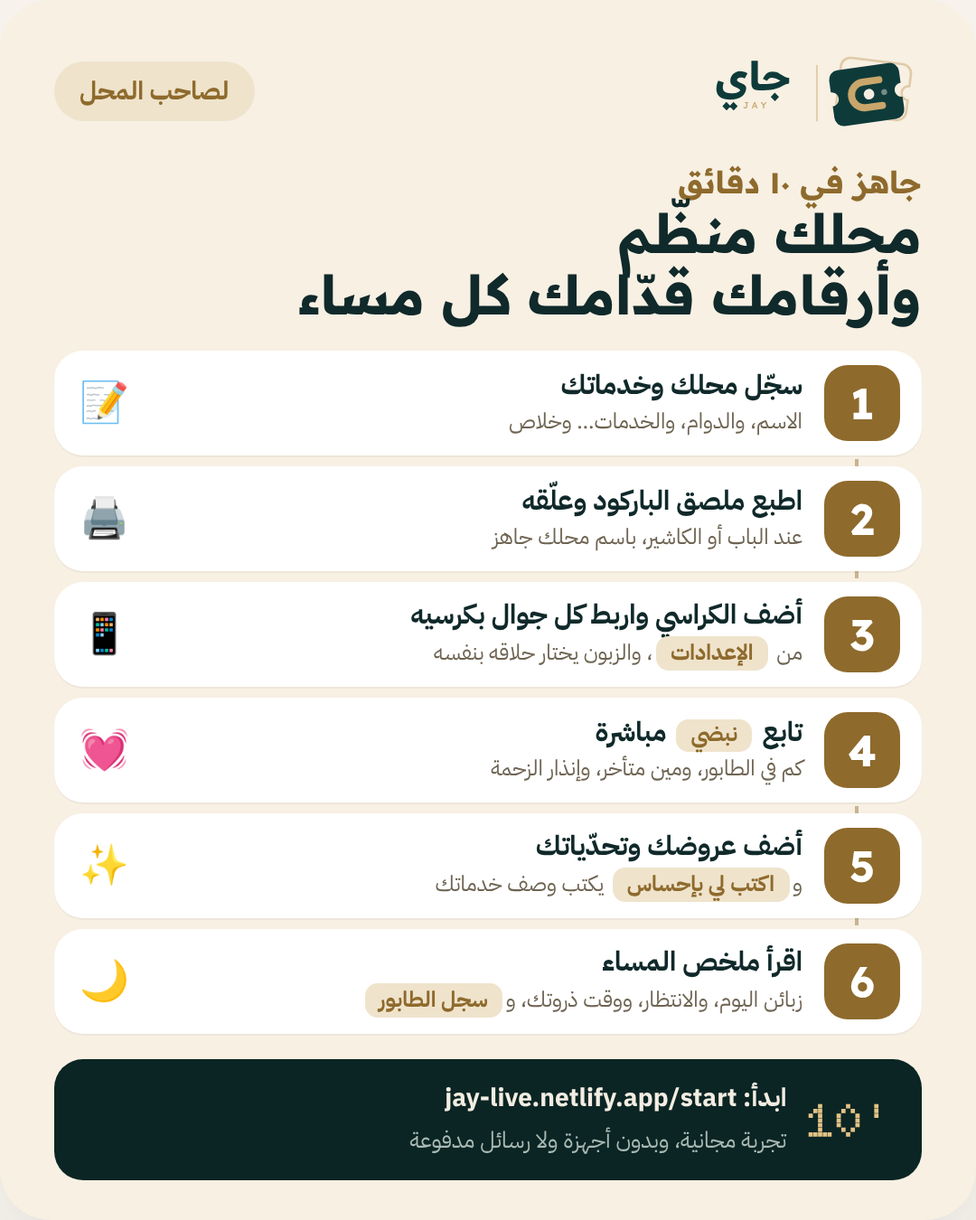
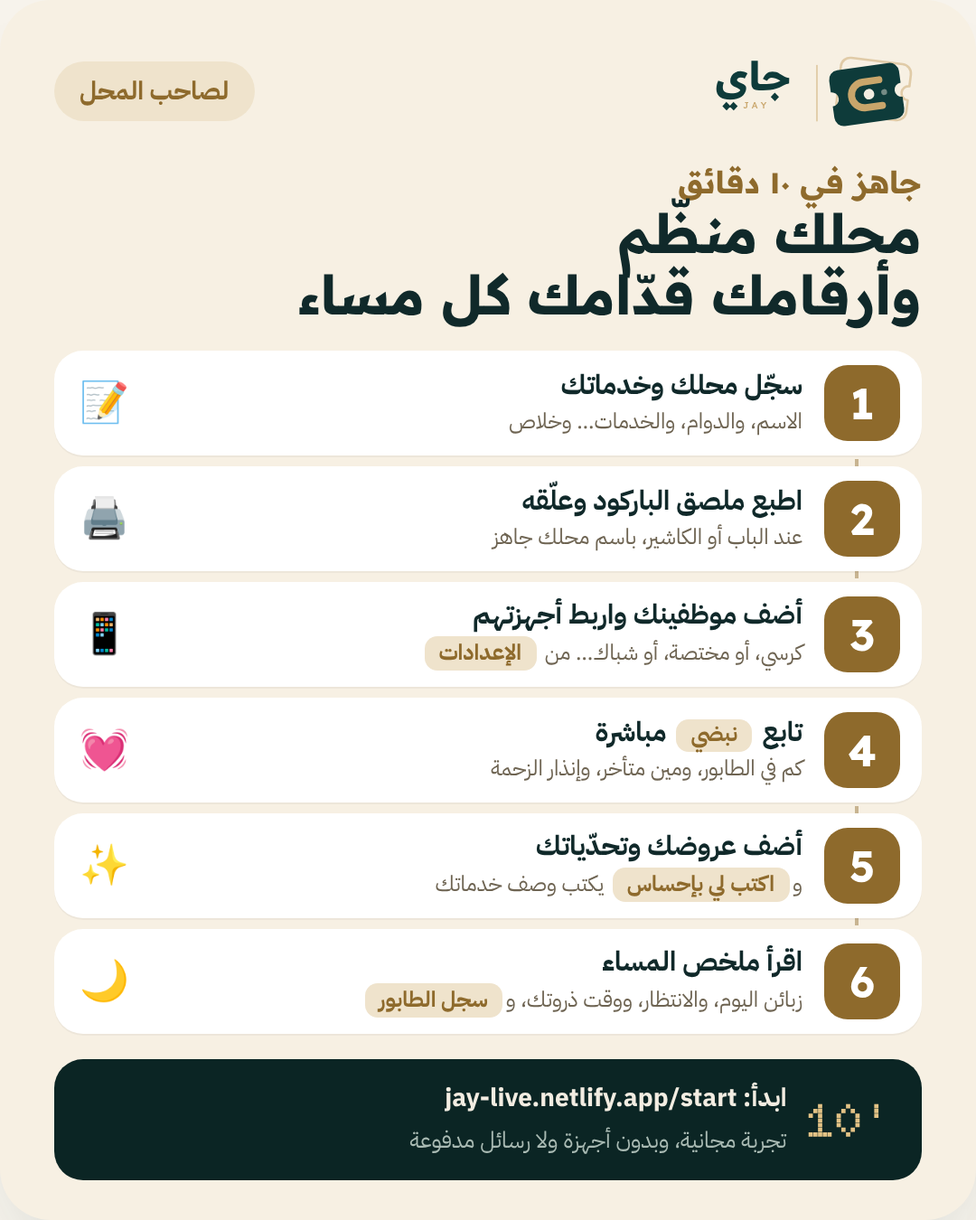
Infographics: four emotional ad boards for owners across all ten sectors; how-to boards made sector-neutral
- New boards: before vs with Jay, Jay for every business type (barber, salon, café, restaurant, bakery, clinic,
  lab, car wash, phone repair, tailor/laundry) with the three modes, a day with Jay, and the uncounted loss
  (an illustrative calculation) with what Jay measures.
- How-to boards: choosing a chair or specialist is optional, staff call in order, owners add staff of any kind.
- All seven PNGs exported at 1080x1350 and published under /brand/infographics/ on the live site.
- Readiness lists the new boards.

Claude-Session: https://claude.ai/code/session_011AnjtrARLh3VczrdQUDmDr

Changed region(s): [[0.4278, 0.4978, 0.825, 0.56]]

diff --git a/site/infographics.html b/site/infographics.html
@@ -1,4 +1,4 @@
-<title>جاي بخطوات بسيطة</title>
+<title>إنفوجرافيك جاي</title>
 <meta name="claude:viewport-fit-sides" content="cover">
 <link rel="preconnect" href="https://fonts.googleapis.com">
 <link rel="preconnect" href="https://fonts.gstatic.com" crossorigin>
@@ -46,12 +46,123 @@ body{margin:0;background:var(--paper);color:var(--ink);font-family:"IBM Plex San
 .ig.staff .foot{background:#1E2A27}
 .ig.staff .logo{background:#15403D;box-shadow:inset 0 0 0 1px rgba(201,166,107,.35)}
 .ig .url{position:absolute;left:32px;top:42px;font-size:11.5px;color:var(--mt);direction:ltr}
+.sec{font:700 22px "Readex Pro";margin:34px 0 14px;text-align:center}
+.ig.ad.feel,.ig.ad.money{--bg:#0E3B3A;--card:rgba(243,237,226,.07);--tx:#F3EDE2;--mt:#B9C7C1;--ac:#C9A66B;--ac2:rgba(201,166,107,.18)}
+.ig.ad.feel,.ig.ad.money{background:radial-gradient(120% 90% at 85% 0%,#15504E 0%,#0E3B3A 60%)}
+.ig.ad.sectors{--bg:#F7F3EC;--ac:#0E3B3A;--ac2:#E8EFEB}
+.ig.ad.day{--bg:#F7F0E3;--mt:#6E6452;--ac:#8E6A2C;--ac2:#EFE3CC}
+.ig.ad .head h2{font-size:27px;line-height:1.22}
+.ig.ad .foot{background:#0B2524}
+.ig.ad.feel .foot,.ig.ad.money .foot{background:rgba(0,0,0,.28)}
+/* before / after */
+.ba{display:grid;grid-template-columns:1fr 1fr;gap:12px;padding:16px 30px 0;align-content:start}
+.ba .col{border-radius:18px;padding:16px 16px 14px;display:grid;gap:12px;align-content:start}
+.ba .lbl{font:700 18px "Readex Pro";display:block;margin-bottom:2px}
+.ba p{margin:0;font-size:15.5px;line-height:1.45;display:flex;gap:8px;align-items:flex-start}
+.ba .before{background:rgba(243,237,226,.06);color:#A9B8B2}
+.ba .before p::before{content:"✕";color:#E28B79;font-weight:700}
+.ba .after{background:#F3EDE2;color:#0E3B3A}
+.ba .after .lbl{color:#8E6A2C}
+.ba .after p{font-weight:600}
+.feel .heart{margin:18px 30px 0;flex:1;display:grid;align-content:center;justify-items:center;text-align:center;gap:6px}
+.feel .heart b{font:700 23px/1.4 "Readex Pro";color:#F3EDE2}
+.feel .heart b em{font-style:normal;color:#C9A66B}
+.feel .heart span{font-size:13.5px;color:#B9C7C1}
+.ba .after p::before{content:"✓";color:#8E6A2C;font-weight:700}
+/* sector tiles */
+.tiles{display:grid;grid-template-columns:1fr 1fr;gap:9px;padding:14px 30px 0;flex:1;align-content:center}
+.tiles div{background:#fff;border-radius:14px;padding:11px 12px;display:grid;grid-template-columns:34px 1fr;column-gap:9px;align-items:center}
+.tiles i{grid-row:span 2;font-style:normal;font-size:25px;width:34px;height:34px;display:grid;place-items:center}
+.tiles b{font-size:15px;line-height:1.3}
+.tiles span{font-size:12px;color:var(--mt);line-height:1.4}
+/* a day */
+.tl{list-style:none;margin:0;padding:12px 30px 0;display:grid;gap:8px;flex:1;align-content:start;position:relative}
+.tl::before{content:"";position:absolute;right:51px;top:30px;bottom:30px;width:2px;background:repeating-linear-gradient(var(--ac) 0 6px,transparent 6px 12px);opacity:.4}
+.tl li{display:grid;grid-template-columns:44px 1fr;gap:12px;align-items:center;background:#fff;border-radius:16px;padding:9px 12px}
+.tl i{font-style:normal;font-size:22px;width:44px;height:44px;border-radius:14px;background:var(--ac2);display:grid;place-items:center;position:relative;z-index:1}
+.tl b{display:block;font:700 15px "Readex Pro";color:var(--ac)}
+.tl span{display:block;font-size:12.5px;line-height:1.45}
+/* the money board */
+.calc{margin:14px 30px 0;background:rgba(243,237,226,.07);border:1px solid rgba(201,166,107,.35);border-radius:18px;padding:14px}
+.eq{display:flex;align-items:center;justify-content:space-between;gap:6px}
+.eq span{display:grid;justify-items:center;text-align:center;font-size:11.5px;color:#B9C7C1;line-height:1.3}
+.eq b{font:700 34px/1 "Readex Pro";color:#F3EDE2}
+.eq .res b{color:#C9A66B;font-size:40px}
+.eq em{font-style:normal;font:700 22px "Readex Pro";color:#C9A66B}
+.calc .note{margin:10px 0 0;text-align:center;font-size:12.5px;color:#B9C7C1}
+.calc .note b{color:#F3EDE2}
+.gains{list-style:none;margin:0;padding:12px 30px 0;display:grid;gap:7px;flex:1;align-content:start}
+.gains li{display:flex;gap:10px;align-items:center;font-size:15px;font-weight:600;background:rgba(243,237,226,.06);border-radius:12px;padding:9px 12px}
+.gains li::before{content:"✓";color:#C9A66B;font-weight:700}
 .dl{display:flex;justify-content:center;gap:10px;margin-top:12px;flex-wrap:wrap}
 .dl a{font:600 14px "IBM Plex Sans Arabic";color:var(--ink);text-decoration:none;border:1px solid color-mix(in srgb,var(--muted) 40%,transparent);border-radius:999px;padding:7px 16px}
 </style>
 <div class="page">
-  <h1>«جاي» بخطوات بسيطة</h1>
-  <p>ثلاث لوحات: للزبون، وللموظف، ولصاحب المحل. مقاس منشور (1080×1350)، تصلح للنشر وللطباعة بجانب الكاشير.</p>
+  <h1>«جاي» لكل محل فيه انتظار</h1>
+  <p>سبع لوحات بمقاس منشور (1080×1350): أربع للإعلان تكلّم صاحب المحل، وثلاث تشرح الاستخدام للزبون والموظف والمالك.</p>
+  <h2 class="sec">للإعلان والنشر</h2>
+  <div class="grid">
+    <div class="slot"><section class="ig ad feel" id="ig-feel" aria-label="قبل جاي ومع جاي">
+      <div class="top"><svg class="igmark" xmlns="http://www.w3.org/2000/svg" viewBox="52 128 322 136" role="img" aria-label="جاي"><title>جاي</title><g transform="translate(304 194) rotate(7) scale(0.85) translate(-60 -48)"><path d="M16 0H104A16 16 0 0 1 120 16V36A12 12 0 0 0 120 60V80A16 16 0 0 1 104 96H16A16 16 0 0 1 0 80V60A12 12 0 0 0 0 36V16A16 16 0 0 1 16 0Z" fill="none" stroke="#C9A66B" stroke-width="4" stroke-opacity="0.5" stroke-linejoin="round"/></g><g transform="translate(294 202) rotate(-8) scale(0.85) translate(-60 -48)"><path d="M16 0H104A16 16 0 0 1 120 16V36A12 12 0 0 0 120 60V80A16 16 0 0 1 104 96H16A16 16 0 0 1 0 80V60A12 12 0 0 0 0 36V16A16 16 0 0 1 16 0Z" fill="#F3EDE2"/><path d="M84 26H56A22 22 0 0 0 56 70H84" fill="none" stroke="#C9A66B" stroke-width="12" stroke-linecap="round" stroke-linejoin="round"/><circle cx="64" cy="48" r="9" fill="#0E3B3A"/><circle cx="90" cy="48" r="5" fill="#0E3B3A" fill-opacity="0.45"/></g><line x1="222" y1="160" x2="222" y2="240" stroke="#C9A66B" stroke-width="2" stroke-linecap="round" stroke-opacity="0.6"/><path d="M96.215 209.34Q91.80699999999999 209.34 88.18199999999999 208.47Q84.55699999999999 207.6 81.91799999999999 205.744Q79.279 203.888 77.858 200.959Q76.437 198.03 76.437 193.912Q76.437 191.534 77.10399999999998 188.286Q77.77099999999999 185.038 79.22099999999999 182.022L87.225 184.516Q86.529 186.546 86.15199999999999 188.286Q85.77499999999999 190.026 85.77499999999999 191.708Q85.77499999999999 193.738 86.471 195.333Q87.167 196.928 88.61699999999999 198.03Q90.067 199.132 92.27099999999999 199.683Q94.475 200.234 97.491 200.234Q101.261 200.234 103.842 199.77Q106.423 199.306 107.96 198.55200000000002Q109.49699999999999 197.798 110.19299999999998 197.015Q110.889 196.232 110.889 195.652Q110.889 195.362 110.541 194.898Q110.193 194.434 108.685 193.564Q107.17699999999999 192.694 103.697 191.186Q101.261 190.084 99.695 188.837Q98.12899999999999 187.59 97.375 186.053Q96.621 184.516 96.621 182.544Q96.621 178.252 98.535 175.062Q100.449 171.872 103.81299999999999 170.103Q107.17699999999999 168.334 111.52699999999999 168.334Q113.383 168.334 115.21000000000001 168.711Q117.037 169.088 118.632 169.784Q120.227 170.48 121.445 171.466L117.38499999999999 178.948Q116.225 178.252 114.77499999999999 177.846Q113.32499999999999 177.44 111.52699999999999 177.44Q108.975 177.44 107.64099999999999 178.542Q106.30699999999999 179.644 106.30699999999999 180.804Q106.30699999999999 181.61599999999999 106.74199999999999 182.312Q107.17699999999999 183.008 108.77199999999999 183.907Q110.36699999999999 184.806 113.731 186.314Q116.28299999999999 187.416 117.52999999999999 188.402Q118.77699999999999 189.388 119.18299999999999 190.49Q119.589 191.592 119.589 193.042Q119.589 194.608 119.009 196.696Q118.429 198.784 116.979 200.988Q115.529 203.192 112.89 205.106Q110.251 207.02 106.162 208.18Q102.073 209.34 96.215 209.34ZM91.285 224.942 85.195 218.736 90.937 212.588 97.02699999999999 218.736ZM101.493 224.942 95.40299999999999 218.736 101.20299999999999 212.588 107.29299999999999 218.736ZM138.265 196.0Q135.365 196.0 133.277 195.42000000000002Q131.189 194.84 129.826 193.59300000000002Q128.463 192.346 127.79599999999999 190.374Q127.12899999999999 188.402 127.12899999999999 185.618V153.07999999999998H136.46699999999998V182.254Q136.46699999999998 183.53 136.641 184.429Q136.815 185.328 137.279 185.87900000000002Q137.743 186.43 138.584 186.662Q139.425 186.894 140.817 186.894H143.079V196.0ZM143.079 196.0V186.894H144.413Q149.691 186.894 153.287 186.662Q156.883 186.43 159.377 185.937Q161.871 185.444 163.727 184.69Q165.583 183.936 167.381 182.892Q167.787 182.66 168.077 182.486Q168.36700000000002 182.312 168.62800000000001 182.167Q168.889 182.022 169.06300000000002 181.964Q166.917 180.862 165.17700000000002 180.079Q163.437 179.296 161.9 178.803Q160.363 178.31 159.0 178.078Q157.637 177.846 156.245 177.846Q154.447 177.846 152.93900000000002 178.832Q151.431 179.81799999999998 149.749 182.254L143.775 179.18Q145.747 175.062 148.00900000000001 172.8Q150.27100000000002 170.538 152.707 169.639Q155.143 168.74 157.52100000000002 168.74Q160.65300000000002 168.74 163.29200000000003 169.668Q165.931 170.596 168.251 171.988Q170.571 173.38 172.775 174.743Q174.979 176.106 177.183 177.034Q179.387 177.962 181.881 177.904L181.707 185.792Q180.199 186.198 177.995 186.981Q175.791 187.764 172.89100000000002 189.272Q170.571 190.49 168.019 191.679Q165.467 192.868 162.161 193.85399999999998Q158.85500000000002 194.84 154.389 195.42000000000002Q149.923 196.0 143.833 196.0ZM143.079 186.894H143.65900000000002V196.0H143.079Q141.339 196.0 141.339 191.476Q141.339 186.894 143.079 186.894ZM161.291 211.602 155.143 205.39600000000002 161.001 199.248 167.091 205.39600000000002Z" fill="#F3EDE2"/><path d="M118.238 222.13Q117.783 222.13 117.36699999999999 222.01299999999998Q116.951 221.896 116.6 221.6815Q116.249 221.467 115.9695 221.1615Q115.69 220.856 115.495 220.479L116.509 219.426Q116.847 219.881 117.107 220.128Q117.367 220.375 117.614 220.466Q117.861 220.557 118.16 220.557Q118.576 220.557 118.8945 220.362Q119.213 220.167 119.382 219.829Q119.551 219.491 119.551 219.062V214.408H117.887V212.9H122.619V214.408H121.215V219.231Q121.215 219.868 120.994 220.3945Q120.773 220.921 120.3765 221.31099999999998Q119.98 221.701 119.434 221.9155Q118.888 222.13 118.238 222.13ZM127.58 222.0 131.129 212.9H132.702L136.225 222.0H134.483L132.51999999999998 216.8Q132.468 216.657 132.3575 216.31900000000002Q132.24699999999999 215.981 132.117 215.578Q131.987 215.175 131.8765 214.837Q131.766 214.499 131.727 214.33L132.052 214.317Q131.974 214.577 131.87 214.9085Q131.766 215.24 131.649 215.591Q131.53199999999998 215.942 131.415 216.267Q131.298 216.592 131.207 216.852L129.257 222.0ZM129.192 219.907 129.76399999999998 218.451H133.911L134.548 219.907ZM144.046 222.0V217.463L144.137 218.1L140.458 212.9H142.434L145.229 216.917L144.644 216.878L147.166 212.9H149.064L145.541 218.243L145.73600000000002 217.359V222.0Z" fill="#C9A66B"/></svg><span class="who">لصاحب المحل</span></div>
+      <div class="head"><span class="hand">نعرف هالشعور…</span><h2>المحل زحمة، والزبون واقف عند الباب<br>وأنت تحس إنه بيمشي</h2></div>
+      <div class="ba">
+        <div class="col before"><b class="lbl">قبل</b>
+          <p>«كم باقي؟» كل دقيقتين</p><p>صالة انتظار خانقة</p><p>زبون يمشي بصمت… وما يرجع</p><p>آخر اليوم ما تدري كم خسرت</p></div>
+        <div class="col after"><b class="lbl">مع جاي</b>
+          <p>ينتظر في سيارته أو بيته</p><p>يجي على دوره بالضبط</p><p>موظفك يشتغل بهدوء</p><p>كل مساء تعرف كم كسبت</p></div>
+      </div>
+      <div class="heart"><b>زبونك يحس إن وقته <em>محترم</em>…<br>فيرجع لك، ويجيب معه غيره</b><span>والراحة اللي يحسها زبونك، تحسها أنت قبله</span></div>
+      <div class="foot"><span class="big">✓</span><div><b>ارتاح… وخلّ «جاي» يدير الطابور عنك</b><span>بدون أجهزة، وبدون تطبيق للزبون، وجاهز في ١٠ دقائق</span></div></div>
+    </section></div>
+
+    <div class="slot"><section class="ig ad sectors" id="ig-sectors" aria-label="جاي لكل نشاط">
+      <div class="top"><svg class="igmark" xmlns="http://www.w3.org/2000/svg" viewBox="52 128 322 136" role="img" aria-label="جاي"><title>جاي</title><g transform="translate(304 194) rotate(7) scale(0.85) translate(-60 -48)"><path d="M16 0H104A16 16 0 0 1 120 16V36A12 12 0 0 0 120 60V80A16 16 0 0 1 104 96H16A16 16 0 0 1 0 80V60A12 12 0 0 0 0 36V16A16 16 0 0 1 16 0Z" fill="none" stroke="#C9A66B" stroke-width="4" stroke-opacity="0.5" stroke-linejoin="round"/></g><g transform="translate(294 202) rotate(-8) scale(0.85) translate(-60 -48)"><path d="M16 0H104A16 16 0 0 1 120 16V36A12 12 0 0 0 120 60V80A16 16 0 0 1 104 96H16A16 16 0 0 1 0 80V60A12 12 0 0 0 0 36V16A16 16 0 0 1 16 0Z" fill="#0E3B3A"/><path d="M84 26H56A22 22 0 0 0 56 70H84" fill="none" stroke="#C9A66B" stroke-width="12" stroke-linecap="round" stroke-linejoin="round"/><circle cx="64" cy="48" r="9" fill="#F3EDE2"/><circle cx="90" cy="48" r="5" fill="#F3EDE2" fill-opacity="0.45"/></g><line x1="222" y1="160" x2="222" y2="240" stroke="#C9A66B" stroke-width="2" stroke-linecap="round" stroke-opacity="0.6"/><path d="M96.215 209.34Q91.80699999999999 209.34 88.18199999999999 208.47Q84.55699999999999 207.6 81.91799999999999 205.744Q79.279 203.888 77.858 200.959Q76.437 198.03 76.437 193.912Q76.437 191.534 77.10399999999998 188.286Q77.77099999999999 185.038 79.22099999999999 182.022L87.225 184.516Q86.529 186.546 86.15199999999999 188.286Q85.77499999999999 190.026 85.77499999999999 191.708Q85.77499999999999 193.738 86.471 195.333Q87.167 196.928 88.61699999999999 198.03Q90.067 199.132 92.27099999999999 199.683Q94.475 200.234 97.491 200.234Q101.261 200.234 103.842 199.77Q106.423 199.306 107.96 198.55200000000002Q109.49699999999999 197.798 110.19299999999998 197.015Q110.889 196.232 110.889 195.652Q110.889 195.362 110.541 194.898Q110.193 194.434 108.685 193.564Q107.17699999999999 192.694 103.697 191.186Q101.261 190.084 99.695 188.837Q98.12899999999999 187.59 97.375 186.053Q96.621 184.516 96.621 182.544Q96.621 178.252 98.535 175.062Q100.449 171.872 103.81299999999999 170.103Q107.17699999999999 168.334 111.52699999999999 168.334Q113.383 168.334 115.21000000000001 168.711Q117.037 169.088 118.632 169.784Q120.227 170.48 121.445 171.466L117.38499999999999 178.948Q116.225 178.252 114.77499999999999 177.846Q113.32499999999999 177.44 111.52699999999999 177.44Q108.975 177.44 107.64099999999999 178.542Q106.30699999999999 179.644 106.30699999999999 180.804Q106.30699999999999 181.61599999999999 106.74199999999999 182.312Q107.17699999999999 183.008 108.77199999999999 183.907Q110.36699999999999 184.806 113.731 186.314Q116.28299999999999 187.416 117.52999999999999 188.402Q118.77699999999999 189.388 119.18299999999999 190.49Q119.589 191.592 119.589 193.042Q119.589 194.608 119.009 196.696Q118.429 198.784 116.979 200.988Q115.529 203.192 112.89 205.106Q110.251 207.02 106.162 208.18Q102.073 209.34 96.215 209.34ZM91.285 224.942 85.195 218.736 90.937 212.588 97.02699999999999 218.736ZM101.493 224.942 95.40299999999999 218.736 101.20299999999999 212.588 107.29299999999999 218.736ZM138.265 196.0Q135.365 196.0 133.277 195.42000000000002Q131.189 194.84 129.826 193.59300000000002Q128.463 192.346 127.79599999999999 190.374Q127.12899999999999 188.402 127.12899999999999 185.618V153.07999999999998H136.46699999999998V182.254Q136.46699999999998 183.53 136.641 184.429Q136.815 185.328 137.279 185.87900000000002Q137.743 186.43 138.584 186.662Q139.425 186.894 140.817 186.894H143.079V196.0ZM143.079 196.0V186.894H144.413Q149.691 186.894 153.287 186.662Q156.883 186.43 159.377 185.937Q161.871 185.444 163.727 184.69Q165.583 183.936 167.381 182.892Q167.787 182.66 168.077 182.486Q168.36700000000002 182.312 168.62800000000001 182.167Q168.889 182.022 169.06300000000002 181.964Q166.917 180.862 165.17700000000002 180.079Q163.437 179.296 161.9 178.803Q160.363 178.31 159.0 178.078Q157.637 177.846 156.245 177.846Q154.447 177.846 152.93900000000002 178.832Q151.431 179.81799999999998 149.749 182.254L143.775 179.18Q145.747 175.062 148.00900000000001 172.8Q150.27100000000002 170.538 152.707 169.639Q155.143 168.74 157.52100000000002 168.74Q160.65300000000002 168.74 163.29200000000003 169.668Q165.931 170.596 168.251 171.988Q170.571 173.38 172.775 174.743Q174.979 176.106 177.183 177.034Q179.387 177.962 181.881 177.904L181.707 185.792Q180.199 186.198 177.995 186.981Q175.791 187.764 172.89100000000002 189.272Q170.571 190.49 168.019 191.679Q165.467 192.868 162.161 193.85399999999998Q158.85500000000002 194.84 154.389 195.42000000000002Q149.923 196.0 143.833 196.0ZM143.079 186.894H143.65900000000002V196.0H143.079Q141.339 196.0 141.339 191.476Q141.339 186.894 143.079 186.894ZM161.291 211.602 155.143 205.39600000000002 161.001 199.248 167.091 205.39600000000002Z" fill="#0E3B3A"/><path d="M118.238 222.13Q117.783 222.13 117.36699999999999 222.01299999999998Q116.951 221.896 116.6 221.6815Q116.249 221.467 115.9695 221.1615Q115.69 220.856 115.495 220.479L116.509 219.426Q116.847 219.881 117.107 220.128Q117.367 220.375 117.614 220.466Q117.861 220.557 118.16 220.557Q118.576 220.557 118.8945 220.362Q119.213 220.167 119.382 219.829Q119.551 219.491 119.551 219.062V214.408H117.887V212.9H122.619V214.408H121.215V219.231Q121.215 219.868 120.994 220.3945Q120.773 220.921 120.3765 221.31099999999998Q119.98 221.701 119.434 221.9155Q118.888 222.13 118.238 222.13ZM127.58 222.0 131.129 212.9H132.702L136.225 222.0H134.483L132.51999999999998 216.8Q132.468 216.657 132.3575 216.31900000000002Q132.24699999999999 215.981 132.117 215.578Q131.987 215.175 131.8765 214.837Q131.766 214.499 131.727 214.33L132.052 214.317Q131.974 214.577 131.87 214.9085Q131.766 215.24 131.649 215.591Q131.53199999999998 215.942 131.415 216.267Q131.298 216.592 131.207 216.852L129.257 222.0ZM129.192 219.907 129.76399999999998 218.451H133.911L134.548 219.907ZM144.046 222.0V217.463L144.137 218.1L140.458 212.9H142.434L145.229 216.917L144.644 216.878L147.166 212.9H149.064L145.541 218.243L145.73600000000002 217.359V222.0Z" fill="#C9A66B"/></svg><span class="who">لكل نشاط</span></div>
+      <div class="head"><span class="hand">أي محل فيه انتظار</span><h2>«جاي» يخلّي الانتظار عندك أحلى</h2></div>
+      <div class="tiles">
+        <div><i>💈</i><b>حلاق</b><span>يعرف الكرسي الفاضي قبل ما يطلع</span></div>
+        <div><i>💅</i><b>مشغل نسائي</b><span>تنتظر في بيتها وتجي على موعدها</span></div>
+        <div><i>☕</i><b>مقهى</b><span>طلبك جاهز؟ تنبيه وهو في سيارته</span></div>
+        <div><i>🍽</i><b>مطعم</b><span>دوره على الطاولة بدل الوقوف بالباب</span></div>
+        <div><i>🥖</i><b>مخبز</b><span>الذروة تمشي بلا زحمة عند الكاشير</span></div>
+        <div><i>🩺</i><b>عيادة</b><span>المريض يرتاح لين يقرب دوره</span></div>
+        <div><i>🧪</i><b>مختبر</b><span>سحب العينات بالدور بهدوء</span></div>
+        <div><i>🚗</i><b>مغسلة سيارات</b><span>يسلّم سيارته ويروح لين «جاهزة»</span></div>
+        <div><i>📱</i><b>صيانة جوالات</b><span>يعرف وين وصل جهازه بلا اتصال</span></div>
+        <div><i>🧵</i><b>خياط ومغسلة ملابس</b><span>«جاهز للاستلام» برسالة وحدة</span></div>
+      </div>
+      <div class="foot"><span class="big">3</span><div><b>ثلاثة أوضاع تناسب شغلك</b><span>طابور بالدور · تتبّع الطلب بالإيصال · استلام وتسليم بمراحل</span></div></div>
+    </section></div>
+
+    <div class="slot"><section class="ig ad day" id="ig-day" aria-label="يومك مع جاي">
+      <div class="top"><svg class="igmark" xmlns="http://www.w3.org/2000/svg" viewBox="52 128 322 136" role="img" aria-label="جاي"><title>جاي</title><g transform="translate(304 194) rotate(7) scale(0.85) translate(-60 -48)"><path d="M16 0H104A16 16 0 0 1 120 16V36A12 12 0 0 0 120 60V80A16 16 0 0 1 104 96H16A16 16 0 0 1 0 80V60A12 12 0 0 0 0 36V16A16 16 0 0 1 16 0Z" fill="none" stroke="#C9A66B" stroke-width="4" stroke-opacity="0.5" stroke-linejoin="round"/></g><g transform="translate(294 202) rotate(-8) scale(0.85) translate(-60 -48)"><path d="M16 0H104A16 16 0 0 1 120 16V36A12 12 0 0 0 120 60V80A16 16 0 0 1 104 96H16A16 16 0 0 1 0 80V60A12 12 0 0 0 0 36V16A16 16 0 0 1 16 0Z" fill="#0E3B3A"/><path d="M84 26H56A22 22 0 0 0 56 70H84" fill="none" stroke="#C9A66B" stroke-width="12" stroke-linecap="round" stroke-linejoin="round"/><circle cx="64" cy="48" r="9" fill="#F3EDE2"/><circle cx="90" cy="48" r="5" fill="#F3EDE2" fill-opacity="0.45"/></g><line x1="222" y1="160" x2="222" y2="240" stroke="#C9A66B" stroke-width="2" stroke-linecap="round" stroke-opacity="0.6"/><path d="M96.215 209.34Q91.80699999999999 209.34 88.18199999999999 208.47Q84.55699999999999 207.6 81.91799999999999 205.744Q79.279 203.888 77.858 200.959Q76.437 198.03 76.437 193.912Q76.437 191.534 77.10399999999998 188.286Q77.77099999999999 185.038 79.22099999999999 182.022L87.225 184.516Q86.529 186.546 86.15199999999999 188.286Q85.77499999999999 190.026 85.77499999999999 191.708Q85.77499999999999 193.738 86.471 195.333Q87.167 196.928 88.61699999999999 198.03Q90.067 199.132 92.27099999999999 199.683Q94.475 200.234 97.491 200.234Q101.261 200.234 103.842 199.77Q106.423 199.306 107.96 198.55200000000002Q109.49699999999999 197.798 110.19299999999998 197.015Q110.889 196.232 110.889 195.652Q110.889 195.362 110.541 194.898Q110.193 194.434 108.685 193.564Q107.17699999999999 192.694 103.697 191.186Q101.261 190.084 99.695 188.837Q98.12899999999999 187.59 97.375 186.053Q96.621 184.516 96.621 182.544Q96.621 178.252 98.535 175.062Q100.449 171.872 103.81299999999999 170.103Q107.17699999999999 168.334 111.52699999999999 168.334Q113.383 168.334 115.21000000000001 168.711Q117.037 169.088 118.632 169.784Q120.227 170.48 121.445 171.466L117.38499999999999 178.948Q116.225 178.252 114.77499999999999 177.846Q113.32499999999999 177.44 111.52699999999999 177.44Q108.975 177.44 107.64099999999999 178.542Q106.30699999999999 179.644 106.30699999999999 180.804Q106.30699999999999 181.61599999999999 106.74199999999999 182.312Q107.17699999999999 183.008 108.77199999999999 183.907Q110.36699999999999 184.806 113.731 186.314Q116.28299999999999 187.416 117.52999999999999 188.402Q118.77699999999999 189.388 119.18299999999999 190.49Q119.589 191.592 119.589 193.042Q119.589 194.608 119.009 196.696Q118.429 198.784 116.979 200.988Q115.529 203.192 112.89 205.106Q110.251 207.02 106.162 208.18Q102.073 209.34 96.215 209.34ZM91.285 224.942 85.195 218.736 90.937 212.588 97.02699999999999 218.736ZM101.493 224.942 95.40299999999999 218.736 101.20299999999999 212.588 107.29299999999999 218.736ZM138.265 196.0Q135.365 196.0 133.277 195.42000000000002Q131.189 194.84 129.826 193.59300000000002Q128.463 192.346 127.79599999999999 190.374Q127.12899999999999 188.402 127.12899999999999 185.618V153.07999999999998H136.46699999999998V182.254Q136.46699999999998 183.53 136.641 184.429Q136.815 185.328 137.279 185.87900000000002Q137.743 186.43 138.584 186.662Q139.425 186.894 140.817 186.894H143.079V196.0ZM143.079 196.0V186.894H144.413Q149.691 186.894 153.287 186.662Q156.883 186.43 159.377 185.937Q161.871 185.444 163.727 184.69Q165.583 183.936 167.381 182.892Q167.787 182.66 168.077 182.486Q168.36700000000002 182.312 168.62800000000001 182.167Q168.889 182.022 169.06300000000002 181.964Q166.917 180.862 165.17700000000002 180.079Q163.437 179.296 161.9 178.803Q160.363 178.31 159.0 178.078Q157.637 177.846 156.245 177.846Q154.447 177.846 152.93900000000002 178.832Q151.431 179.81799999999998 149.749 182.254L143.775 179.18Q145.747 175.062 148.00900000000001 172.8Q150.27100000000002 170.538 152.707 169.639Q155.143 168.74 157.52100000000002 168.74Q160.65300000000002 168.74 163.29200000000003 169.668Q165.931 170.596 168.251 171.988Q170.571 173.38 172.775 174.743Q174.979 176.106 177.183 177.034Q179.387 177.962 181.881 177.904L181.707 185.792Q180.199 186.198 177.995 186.981Q175.791 187.764 172.89100000000002 189.272Q170.571 190.49 168.019 191.679Q165.467 192.868 162.161 193.85399999999998Q158.85500000000002 194.84 154.389 195.42000000000002Q149.923 196.0 143.833 196.0ZM143.079 186.894H143.65900000000002V196.0H143.079Q141.339 196.0 141.339 191.476Q141.339 186.894 143.079 186.894ZM161.291 211.602 155.143 205.39600000000002 161.001 199.248 167.091 205.39600000000002Z" fill="#0E3B3A"/><path d="M118.238 222.13Q117.783 222.13 117.36699999999999 222.01299999999998Q116.951 221.896 116.6 221.6815Q116.249 221.467 115.9695 221.1615Q115.69 220.856 115.495 220.479L116.509 219.426Q116.847 219.881 117.107 220.128Q117.367 220.375 117.614 220.466Q117.861 220.557 118.16 220.557Q118.576 220.557 118.8945 220.362Q119.213 220.167 119.382 219.829Q119.551 219.491 119.551 219.062V214.408H117.887V212.9H122.619V214.408H121.215V219.231Q121.215 219.868 120.994 220.3945Q120.773 220.921 120.3765 221.31099999999998Q119.98 221.701 119.434 221.9155Q118.888 222.13 118.238 222.13ZM127.58 222.0 131.129 212.9H132.702L136.225 222.0H134.483L132.51999999999998 216.8Q132.468 216.657 132.3575 216.31900000000002Q132.24699999999999 215.981 132.117 215.578Q131.987 215.175 131.8765 214.837Q131.766 214.499 131.727 214.33L132.052 214.317Q131.974 214.577 131.87 214.9085Q131.766 215.24 131.649 215.591Q131.53199999999998 215.942 131.415 216.267Q131.298 216.592 131.207 216.852L129.257 222.0ZM129.192 219.907 129.76399999999998 218.451H133.911L134.548 219.907ZM144.046 222.0V217.463L144.137 218.1L140.458 212.9H142.434L145.229 216.917L144.644 216.878L147.166 212.9H149.064L145.541 218.243L145.73600000000002 217.359V222.0Z" fill="#C9A66B"/></svg><span class="who">تخيّل يومك</span></div>
+      <div class="head"><span class="hand">يومك يمشي… وأنت مرتاح</span><h2>من أول زبون<br>لين ملخص المساء</h2></div>
+      <ol class="tl">
+        <li><i>☀</i><div><b>الصبح</b><span>تفتح محلك، وطابورك شغّال من الرابط والملصق</span></div></li>
+        <li><i>🔥</i><div><b>وقت الذروة</b><span>الزحمة تمشي بهدوء، وما أحد يطلع زعلان</span></div></li>
+        <li><i>🚗</i><div><b>الزبون البعيد</b><span>يوصله «اطلع الحين» على قد مشواره، ويجي على وقته</span></div></li>
+        <li><i>🎁</i><div><b>وهم ينتظرون</b><span>يشوفون عروضك ويضغطون «أبيها»… دخل زيادة بدون جهد</span></div></li>
+        <li><i>🌙</i><div><b>المساء</b><span>ملخص بأرقامك: كم خدمت، ومتى ذروتك، ومين ما رجع</span></div></li>
+      </ol>
+      <div class="foot"><span class="big">10'</span><div><b>تركيب في عشر دقائق</b><span>اسم محلك، وخدماتك، وملصق QR… وتبدأ</span></div></div>
+    </section></div>
+
+    <div class="slot"><section class="ig ad money" id="ig-money" aria-label="الأرقام اللي ما كنت تشوفها">
+      <div class="top"><svg class="igmark" xmlns="http://www.w3.org/2000/svg" viewBox="52 128 322 136" role="img" aria-label="جاي"><title>جاي</title><g transform="translate(304 194) rotate(7) scale(0.85) translate(-60 -48)"><path d="M16 0H104A16 16 0 0 1 120 16V36A12 12 0 0 0 120 60V80A16 16 0 0 1 104 96H16A16 16 0 0 1 0 80V60A12 12 0 0 0 0 36V16A16 16 0 0 1 16 0Z" fill="none" stroke="#C9A66B" stroke-width="4" stroke-opacity="0.5" stroke-linejoin="round"/></g><g transform="translate(294 202) rotate(-8) scale(0.85) translate(-60 -48)"><path d="M16 0H104A16 16 0 0 1 120 16V36A12 12 0 0 0 120 60V80A16 16 0 0 1 104 96H16A16 16 0 0 1 0 80V60A12 12 0 0 0 0 36V16A16 16 0 0 1 16 0Z" fill="#F3EDE2"/><path d="M84 26H56A22 22 0 0 0 56 70H84" fill="none" stroke="#C9A66B" stroke-width="12" stroke-linecap="round" stroke-linejoin="round"/><circle cx="64" cy="48" r="9" fill="#0E3B3A"/><circle cx="90" cy="48" r="5" fill="#0E3B3A" fill-opacity="0.45"/></g><line x1="222" y1="160" x2="222" y2="240" stroke="#C9A66B" stroke-width="2" stroke-linecap="round" stroke-opacity="0.6"/><path d="M96.215 209.34Q91.80699999999999 209.34 88.18199999999999 208.47Q84.55699999999999 207.6 81.91799999999999 205.744Q79.279 203.888 77.858 200.959Q76.437 198.03 76.437 193.912Q76.437 191.534 77.10399999999998 188.286Q77.77099999999999 185.038 79.22099999999999 182.022L87.225 184.516Q86.529 186.546 86.15199999999999 188.286Q85.77499999999999 190.026 85.77499999999999 191.708Q85.77499999999999 193.738 86.471 195.333Q87.167 196.928 88.61699999999999 198.03Q90.067 199.132 92.27099999999999 199.683Q94.475 200.234 97.491 200.234Q101.261 200.234 103.842 199.77Q106.423 199.306 107.96 198.55200000000002Q109.49699999999999 197.798 110.19299999999998 197.015Q110.889 196.232 110.889 195.652Q110.889 195.362 110.541 194.898Q110.193 194.434 108.685 193.564Q107.17699999999999 192.694 103.697 191.186Q101.261 190.084 99.695 188.837Q98.12899999999999 187.59 97.375 186.053Q96.621 184.516 96.621 182.544Q96.621 178.252 98.535 175.062Q100.449 171.872 103.81299999999999 170.103Q107.17699999999999 168.334 111.52699999999999 168.334Q113.383 168.334 115.21000000000001 168.711Q117.037 169.088 118.632 169.784Q120.227 170.48 121.445 171.466L117.38499999999999 178.948Q116.225 178.252 114.77499999999999 177.846Q113.32499999999999 177.44 111.52699999999999 177.44Q108.975 177.44 107.64099999999999 178.542Q106.30699999999999 179.644 106.30699999999999 180.804Q106.30699999999999 181.61599999999999 106.74199999999999 182.312Q107.17699999999999 183.008 108.77199999999999 183.907Q110.36699999999999 184.806 113.731 186.314Q116.28299999999999 187.416 117.52999999999999 188.402Q118.77699999999999 189.388 119.18299999999999 190.49Q119.589 191.592 119.589 193.042Q119.589 194.608 119.009 196.696Q118.429 198.784 116.979 200.988Q115.529 203.192 112.89 205.106Q110.251 207.02 106.162 208.18Q102.073 209.34 96.215 209.34ZM91.285 224.942 85.195 218.736 90.937 212.588 97.02699999999999 218.736ZM101.493 224.942 95.40299999999999 218.736 101.20299999999999 212.588 107.29299999999999 218.736ZM138.265 196.0Q135.365 196.0 133.277 195.42000000000002Q131.189 194.84 129.826 193.59300000000002Q128.463 192.346 127.79599999999999 190.374Q127.12899999999999 188.402 127.12899999999999 185.618V153.07999999999998H136.46699999999998V182.254Q136.46699999999998 183.53 136.641 184.429Q136.815 185.328 137.279 185.87900000000002Q137.743 186.43 138.584 186.662Q139.425 186.894 140.817 186.894H143.079V196.0ZM143.079 196.0V186.894H144.413Q149.691 186.894 153.287 186.662Q156.883 186.43 159.377 185.937Q161.871 185.444 163.727 184.69Q165.583 183.936 167.381 182.892Q167.787 182.66 168.077 182.486Q168.36700000000002 182.312 168.62800000000001 182.167Q168.889 182.022 169.06300000000002 181.964Q166.917 180.862 165.17700000000002 180.079Q163.437 179.296 161.9 178.803Q160.363 178.31 159.0 178.078Q157.637 177.846 156.245 177.846Q154.447 177.846 152.93900000000002 178.832Q151.431 179.81799999999998 149.749 182.254L143.775 179.18Q145.747 175.062 148.00900000000001 172.8Q150.27100000000002 170.538 152.707 169.639Q155.143 168.74 157.52100000000002 168.74Q160.65300000000002 168.74 163.29200000000003 169.668Q165.931 170.596 168.251 171.988Q170.571 173.38 172.775 174.743Q174.979 176.106 177.183 177.034Q179.387 177.962 181.881 177.904L181.707 185.792Q180.199 186.198 177.995 186.981Q175.791 187.764 172.89100000000002 189.272Q170.571 190.49 168.019 191.679Q165.467 192.868 162.161 193.85399999999998Q158.85500000000002 194.84 154.389 195.42000000000002Q149.923 196.0 143.833 196.0ZM143.079 186.894H143.65900000000002V196.0H143.079Q141.339 196.0 141.339 191.476Q141.339 186.894 143.079 186.894ZM161.291 211.602 155.143 205.39600000000002 161.001 199.248 167.091 205.39600000000002Z" fill="#F3EDE2"/><path d="M118.238 222.13Q117.783 222.13 117.36699999999999 222.01299999999998Q116.951 221.896 116.6 221.6815Q116.249 221.467 115.9695 221.1615Q115.69 220.856 115.495 220.479L116.509 219.426Q116.847 219.881 117.107 220.128Q117.367 220.375 117.614 220.466Q117.861 220.557 118.16 220.557Q118.576 220.557 118.8945 220.362Q119.213 220.167 119.382 219.829Q119.551 219.491 119.551 219.062V214.408H117.887V212.9H122.619V214.408H121.215V219.231Q121.215 219.868 120.994 220.3945Q120.773 220.921 120.3765 221.31099999999998Q119.98 221.701 119.434 221.9155Q118.888 222.13 118.238 222.13ZM127.58 222.0 131.129 212.9H132.702L136.225 222.0H134.483L132.51999999999998 216.8Q132.468 216.657 132.3575 216.31900000000002Q132.24699999999999 215.981 132.117 215.578Q131.987 215.175 131.8765 214.837Q131.766 214.499 131.727 214.33L132.052 214.317Q131.974 214.577 131.87 214.9085Q131.766 215.24 131.649 215.591Q131.53199999999998 215.942 131.415 216.267Q131.298 216.592 131.207 216.852L129.257 222.0ZM129.192 219.907 129.76399999999998 218.451H133.911L134.548 219.907ZM144.046 222.0V217.463L144.137 218.1L140.458 212.9H142.434L145.229 216.917L144.644 216.878L147.166 212.9H149.064L145.541 218.243L145.73600000000002 217.359V222.0Z" fill="#C9A66B"/></svg><span class="who">أرقام محلك</span></div>
+      <div class="head"><span class="hand">الخسارة اللي ما تنحسب</span><h2>كل زبون يمشي من الطابور<br>فلوس طلعت من محلك</h2></div>
+      <div class="calc">
+        <div class="eq"><span><b>٥</b>زبائن يمشون</span><em>×</em><span><b>٥٠</b>ريال للزيارة</span><em>=</em><span class="res"><b>٢٥٠</b>ريال كل يوم</span></div>
+        <p class="note">مثال توضيحي: يعني تقريباً <b>٦٬٥٠٠ ريال</b> في الشهر تروح بصمت</p>
+      </div>
+      <ul class="gains">
+        <li>«جاي» يحسب لك الزبائن الضائعين بالريال</li>
+        <li>متوسط الانتظار ورضا الزبائن كل يوم</li>
+        <li>أنشط ساعة وأهدأ وقت، عشان ترتّب موظفينك</li>
+        <li>عروض وقت الانتظار ترفع قيمة الزيارة</li>
+      </ul>
+      <div class="foot"><span class="big">14</span><div><b>جرّب ١٤ يوم مجاناً</b><span>jay-live.netlify.app/start</span></div></div>
+    </section></div>
+  </div>
+  <h2 class="sec">طريقة الاستخدام</h2>
   <div class="grid">
 
     <div class="slot"><section class="ig customer" id="ig-customer" aria-label="طريقة الزبون">
@@ -59,7 +170,7 @@ body{margin:0;background:var(--paper);color:var(--ink);font-family:"IBM Plex San
       <div class="head"><span class="hand">دورك جاي.. وأنت مرتاح</span><h2>خذ دورك من جوالك<br>وعِش وقتك</h2></div>
       <ol class="steps">
         <li class="st"><span class="n">1</span><div><b>امسح الباركود عند الباب</b><span>بكاميرا جوالك، بدون تطبيق ولا تسجيل</span></div><span class="ic" aria-hidden="true">📷</span></li>
-        <li class="st"><span class="n">2</span><div><b>اختر الخدمة والكرسي، واضغط <i class="chip">خذ رقمك</i></b><span>تشوف مين فاضي ومين مشغول، أو خلّها على «الأسرع»</span></div><span class="ic" aria-hidden="true">🎟</span></li>
+        <li class="st"><span class="n">2</span><div><b>اختر الخدمة، واضغط <i class="chip">خذ رقمك</i></b><span>وتقدر تختار الكرسي أو المختصة، وتشوف مين فاضي</span></div><span class="ic" aria-hidden="true">🎟</span></li>
         <li class="st"><span class="n">3</span><div><b>قل لنا <i class="chip">كم تبعد؟</i> وروح على راحتك</b><span>نقولك متى تطلع، والتنبيه يجيك على الجوال أو الواتساب</span></div><span class="ic" aria-hidden="true">☕</span></li>
         <li class="st"><span class="n">4</span><div><b>اكشف مفاجأتك وأنت تنتظر</b><span>هدايا وتحدّيات من المحل، و<i class="chip">أبيها</i> لأي خدمة إضافية</span></div><span class="ic" aria-hidden="true">🎁</span></li>
         <li class="st"><span class="n">5</span><div><b>تأخرت شوي؟ اضغط <i class="chip">تأخرت</i></b><span>نأجّلك مكان أو مكانين بدل ما يروح دورك</span></div><span class="ic" aria-hidden="true">⏳</span></li>
@@ -74,7 +185,7 @@ body{margin:0;background:var(--paper);color:var(--ink);font-family:"IBM Plex San
       <ol class="steps">
         <li class="st"><span class="n">1</span><div><b>افتح رابط الربط مرة وحدة</b><span>يرسله لك صاحب المحل، وينحفظ في جهازك</span></div><span class="ic" aria-hidden="true">🔗</span></li>
         <li class="st"><span class="n">2</span><div><b>الشاشة تكلّمك بلغتك</b><span>عربي · English · اردو · বাংলা · Filipino</span></div><span class="ic" aria-hidden="true">🌐</span></li>
-        <li class="st"><span class="n">3</span><div><b>اضغط <i class="chip">نادِ التالي</i></b><span>ينادي زبائن كرسيك أولاً، ويجيهم تنبيه «وصل دورك»</span></div><span class="ic" aria-hidden="true">👆</span></li>
+        <li class="st"><span class="n">3</span><div><b>اضغط <i class="chip">نادِ التالي</i></b><span>ينادي زبائنك بالترتيب، ويجيهم تنبيه «وصل دورك»</span></div><span class="ic" aria-hidden="true">👆</span></li>
         <li class="st"><span class="n">4</span><div><b>شوف <i class="chip">وصل</i> و<i class="chip">في الطريق</i></b><span>جنب كل رقم. وإذا ما حضر اضغط «ما حضر»</span></div><span class="ic" aria-hidden="true">🚶</span></li>
         <li class="st"><span class="n">5</span><div><b>زبون بدون جوال؟ <i class="chip">إضافة زبون</i></b><span>يطلع الرقم كبير على شاشتك، قوله له</span></div><span class="ic" aria-hidden="true">➕</span></li>
         <li class="st"><span class="n">6</span><div><b>شارة <i class="chip">✋ يبي</i> بجانب الرقم</b><span>الزبون طلب خدمة إضافية، جهّزها قبل ما يجي</span></div><span class="ic" aria-hidden="true">✋</span></li>
@@ -88,7 +199,7 @@ body{margin:0;background:var(--paper);color:var(--ink);font-family:"IBM Plex San
       <ol class="steps">
         <li class="st"><span class="n">1</span><div><b>سجّل محلك وخدماتك</b><span>الاسم، والدوام، والخدمات… وخلاص</span></div><span class="ic" aria-hidden="true">📝</span></li>
         <li class="st"><span class="n">2</span><div><b>اطبع ملصق الباركود وعلّقه</b><span>عند الباب أو الكاشير، باسم محلك جاهز</span></div><span class="ic" aria-hidden="true">🖨</span></li>
-        <li class="st"><span class="n">3</span><div><b>أضف الكراسي واربط كل جوال بكرسيه</b><span>من <i class="chip">الإعدادات</i>، والزبون يختار حلاقه بنفسه</span></div><span class="ic" aria-hidden="true">📱</span></li>
+        <li class="st"><span class="n">3</span><div><b>أضف موظفينك واربط أجهزتهم</b><span>كرسي، أو مختصة، أو شباك… من <i class="chip">الإعدادات</i></span></div><span class="ic" aria-hidden="true">📱</span></li>
         <li class="st"><span class="n">4</span><div><b>تابع <i class="chip">نبضي</i> مباشرة</b><span>كم في الطابور، ومين متأخر، وإنذار الزحمة</span></div><span class="ic" aria-hidden="true">💓</span></li>
         <li class="st"><span class="n">5</span><div><b>أضف عروضك وتحدّياتك</b><span>و<i class="chip">اكتب لي بإحساس</i> يكتب وصف خدماتك</span></div><span class="ic" aria-hidden="true">✨</span></li>
         <li class="st"><span class="n">6</span><div><b>اقرأ ملخص المساء</b><span>زبائن اليوم، والانتظار، ووقت ذروتك، و<i class="chip">سجل الطابور</i></span></div><span class="ic" aria-hidden="true">🌙</span></li>

diff --git a/site/readiness.html b/site/readiness.html
@@ -67,6 +67,7 @@ tr:last-child td{border-bottom:0}
       <li><b>«كم تبعد عن المحل؟»:</b> التنبيه يوصل حسب مشوار الزبون (٥ إلى ٤٥ دقيقة حسب النشاط) بدل «قبل دورين» دائماً، وتظهر له ساعة دوره وساعة خروجه.</li>
       <li><b>«وصلت المحل»:</b> الموظف يشوف بجانب كل رقم «وصل» أو «في الطريق»، فما ينادي على أحد مو موجود.</li>
       <li><b>الهوية الجديدة:</b> الشعار المعتمد بألوانه وخطّه في التطبيق وكل الصفحات وملصقات QR، واستوديو قوالب لإكس وتيك توك وانستقرام.</li>
+      <li><b>إنفوجرافيك للإعلان:</b> أربع لوحات تكلّم صاحب المحل بمشاعره (قبل جاي ومع جاي، وجاي لكل الأنشطة العشرة، ويومك مع جاي، والخسارة اللي ما تنحسب)، مع لوحات الاستخدام الثلاث بصياغة تناسب كل نشاط.</li>
       <li><b>ملصقات QR لكل عميل:</b> ملصق باب، وبطاقة مرآة، وستيكر زجاج، تُطبع من لوحة المنصة بزر واحد.</li>
       <li><b>إصلاحات:</b> التجربة المجانية المنتهية بدون اشتراك صارت توقف المحل بدل ما تبقيه شغّال مجاناً، و«ارجع الحين» صار يوصل لمن ربط الواتساب فقط، والهدية المغلّفة ما ترجع مغلّفة عند تحديث الصفحة.</li>
     </ol>
